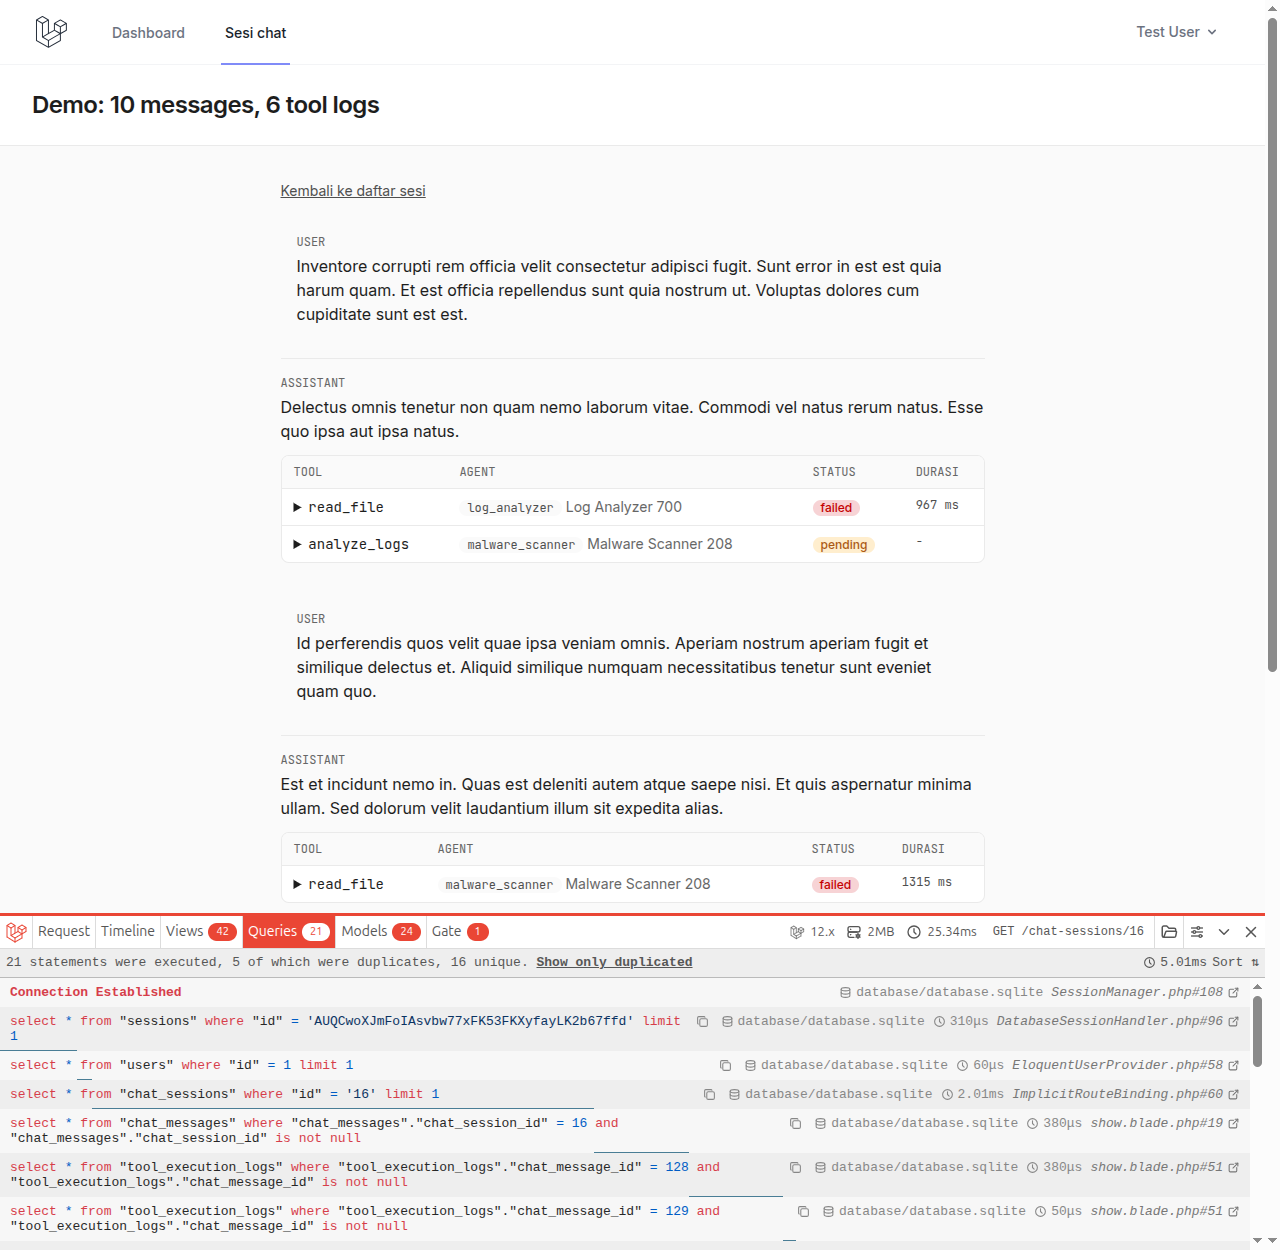
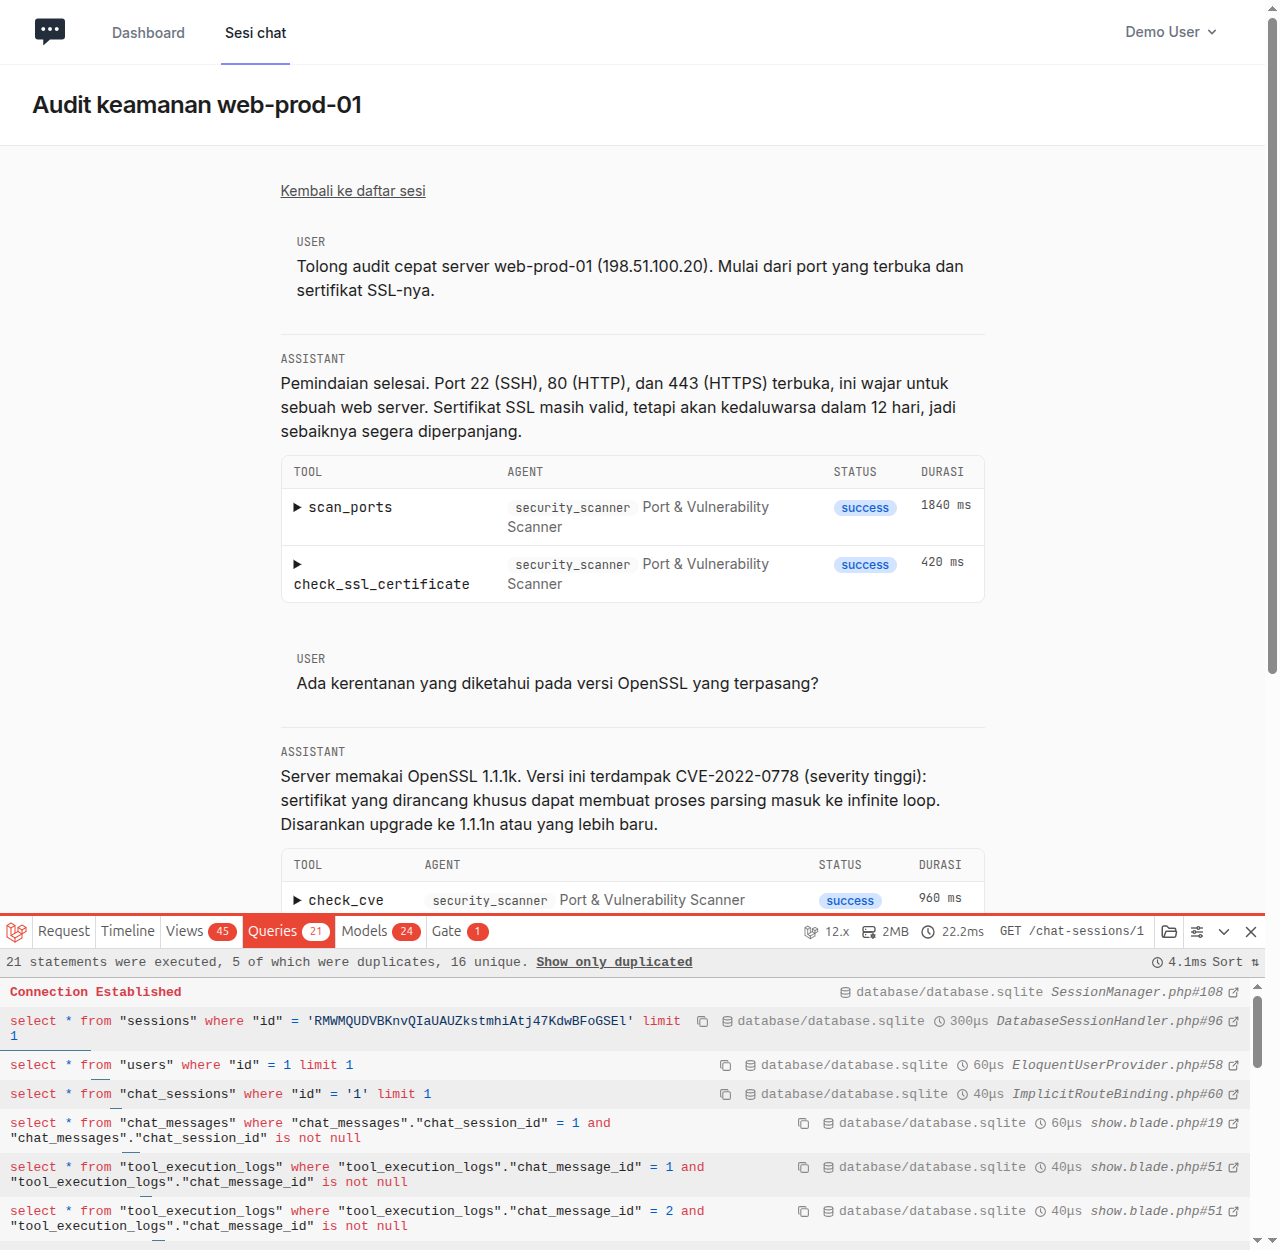
docs: update demo accounts and refresh Debugbar screenshots

diff --git a/README.md b/README.md
@@ -14,8 +14,16 @@ php artisan migrate:fresh --seed
 php artisan serve
 ```
 
-Login demo: `test@example.com` / `password`. Buka menu **Sesi chat**; sesi `Demo: 10 messages, 6 tool logs`
-berisi data tetap (10 pesan, 6 log) untuk perbandingan Debugbar.
+Akun demo (password semuanya `password`):
+
+| Email | Nama | Sesi |
+|---|---|---|
+| `test@example.com` | Demo User | 3 sesi, termasuk `Audit keamanan web-prod-01` |
+| `rizky@example.com` | Rizky Ramadhan | 1 sesi |
+| `sinta@example.com` | Sinta Maharani | 1 sesi |
+
+Sesi `Audit keamanan web-prod-01` berisi data tetap (10 pesan, 6 tool log dari 3 tipe agent) untuk perbandingan Debugbar.
+Percakapan ditulis tangan di `database/seeders/ChatScenarios.php`; baris datanya tetap dibuat lewat factory.
 
 ```bash
 php artisan test               # PHPUnit
